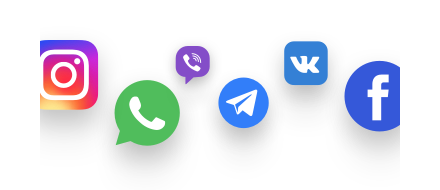
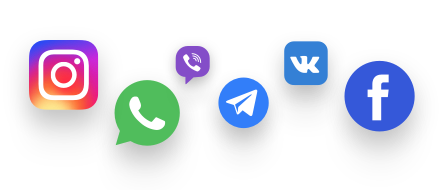
Img social fixed

Changed region(s): [[0.8864, 0.3684, 0.9455, 0.7368], [0.0591, 0.2105, 0.0886, 0.6579]]

diff --git a/src/assets/scss/components/_page-section.scss b/src/assets/scss/components/_page-section.scss
@@ -394,6 +394,8 @@
 
   &__content--social {
     margin-top: 70px;
+    display: flex;
+    flex-direction: column;
 
     &::before,
     &::after {
@@ -443,6 +445,14 @@
 
       @include media-breakpoint-up(xxl) {
         right: -443px;
+      }
+    }
+
+    picture {
+      align-self: center;
+
+      @include media-breakpoint-up(md) {
+        display: none;
       }
     }
   }

diff --git a/src/assets/scss/components/_img.scss b/src/assets/scss/components/_img.scss
@@ -4,7 +4,8 @@
   &--messanger {
     margin-top: -65px;
     margin-bottom: 18px;
-    left: -60px;
+    margin-right: auto;
+    margin-left: auto;
     width: 440px;
     height: 190px;
 
